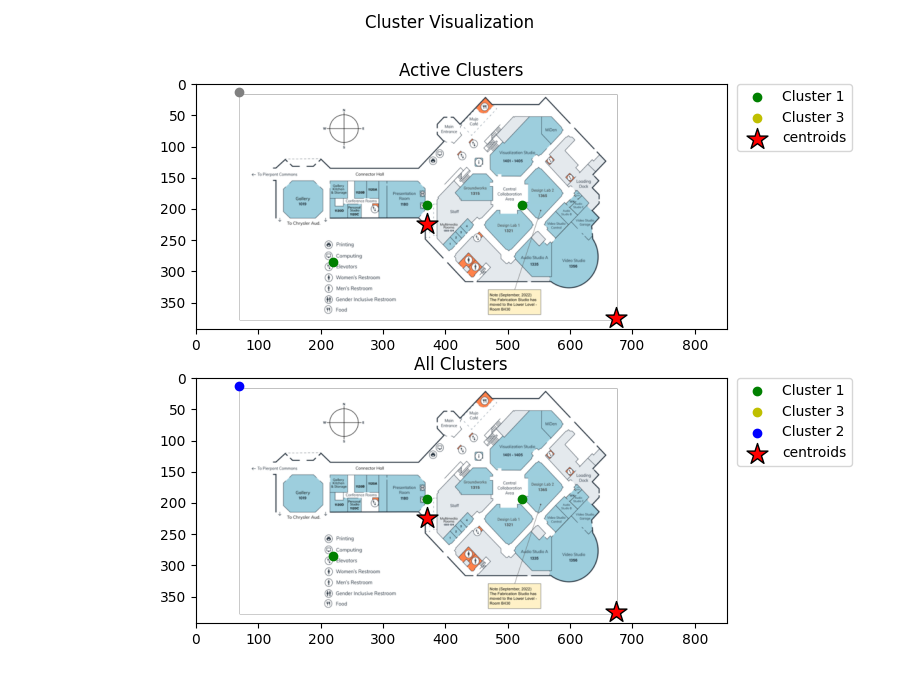
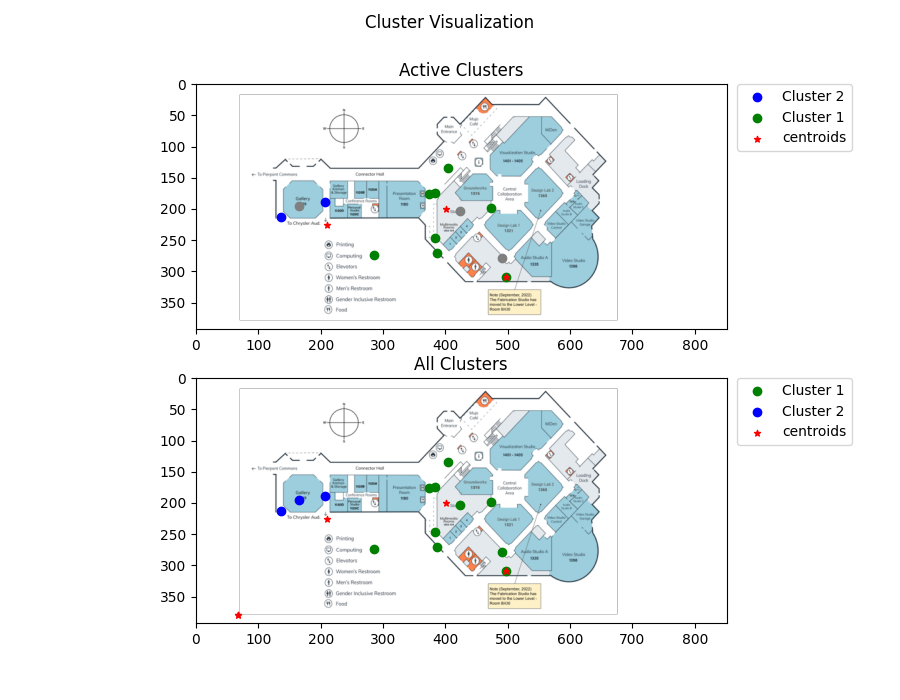
final

diff --git a/ClusterLocatorv2.py b/ClusterLocatorv2.py
@@ -32,10 +32,10 @@ def FindMeans(df):
     points = np.array(list(zip(x_values, y_values)))
 
     # Estimate bandwidth for mean shift
-    bandwidth = estimate_bandwidth(points, quantile=0.18, n_samples=100)
+    bandwidth = estimate_bandwidth(points, quantile=0.2, n_samples=100)
 
     # Create Mean Shift Model
-    ms = MeanShift(bandwidth=.2, bin_seeding=True)
+    ms = MeanShift(bandwidth=.29, bin_seeding=True)
     ms.fit(points)
     labels = ms.labels_
     cluster_centers = ms.cluster_centers_
@@ -132,8 +132,8 @@ def visualizeData(df, cluster_centers, all_cluster_centers, num_centers):
     axs[0].scatter(
         cluster_centers[:num_centers, 1]*y_scaling+ y_offset,
         cluster_centers[:num_centers, 0]*x_scaling + x_offset,
-        s=20, marker='*',
-        c='red', edgecolor='red',
+        s=10, marker='*',
+        c='red', edgecolor='black',
         label='centroids'
     )
     axs[0].set_title('Active Clusters')
@@ -147,10 +147,10 @@ def visualizeData(df, cluster_centers, all_cluster_centers, num_centers):
         axs[1].scatter(clustered_data['y']*y_scaling + y_offset, clustered_data['x']*x_scaling + x_offset, color=colors[clusterId % len(colors)], label= f"Cluster {clusterId}")
 
     axs[1].scatter(
-        cluster_centers[:, 1]*y_scaling+ y_offset,
-        cluster_centers[:, 0]*x_scaling + x_offset,
-        s=20, marker='*',
-        c='red', edgecolor='red',
+        cluster_centers[:num_centers, 1]*y_scaling+ y_offset,
+        cluster_centers[:num_centers, 0]*x_scaling + x_offset,
+        s=10, marker='*',
+        c='red', edgecolor='black',
         label='centroids'
     )
     axs[1].set_title('All Clusters')   
